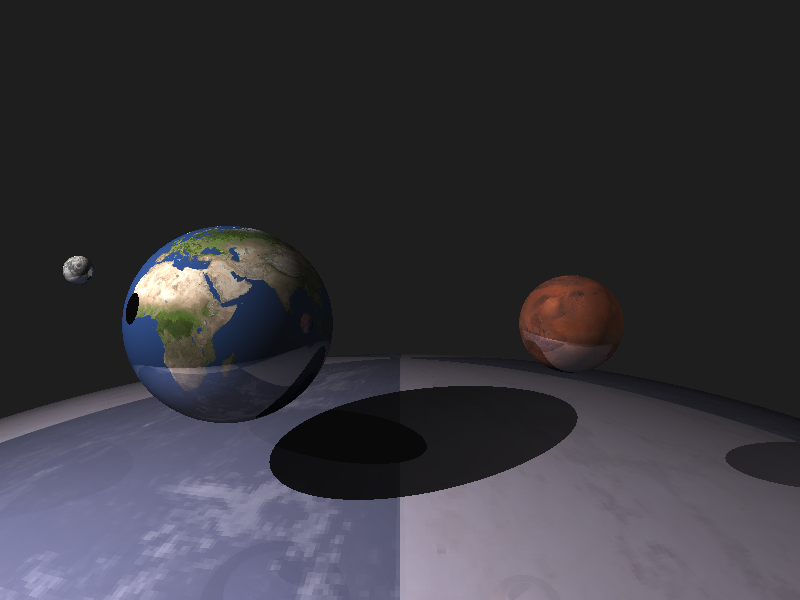
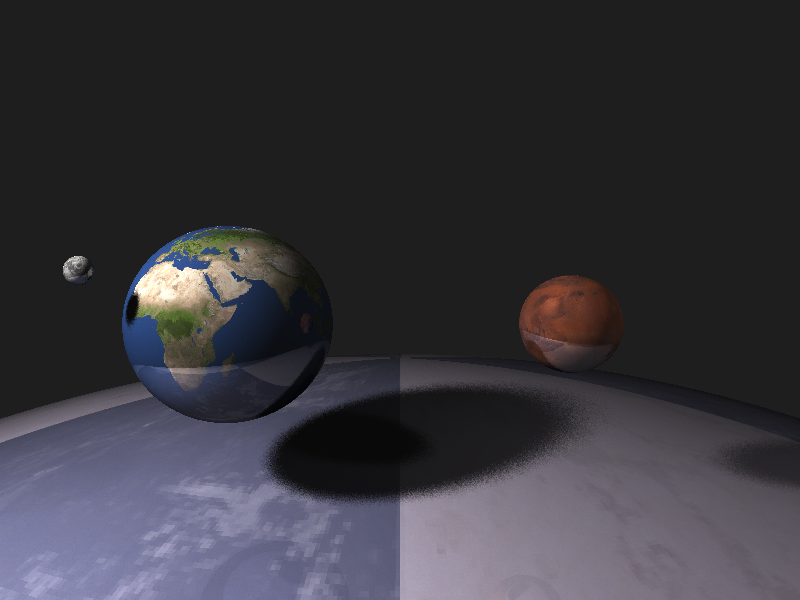
Naive implementation of soft shadows

diff --git a/src/Raytracer.cpp b/src/Raytracer.cpp
@@ -6,19 +6,32 @@
 #include <functional>
 #include <iostream>
 #include <thread>
+#include <random>
 
 constexpr bool REFRACTIONS_ENABLED = true;
 constexpr bool DEPTHMAP_ENABLED = false;
 constexpr bool SHADOWS_ENABLED = true;
 constexpr bool SHADOWS_DEBUG = false;
 constexpr double MAX_DEPTH = 100000.0;
-constexpr int maxReccursionLimit = 3;
+constexpr unsigned int MAX_RECCURSION_LIMIT = 3;
+
+constexpr bool SPHERICAL_LIGHTS_MODEL = true;
+constexpr unsigned int LIGHT_PROBES_COUNT = 16;
+constexpr unsigned int LIGHT_RADIUS = 50;
 
 constexpr bool MULTITHREAD_MODE = true;
 constexpr int IMG_WIDTH = 800;
 constexpr int IMG_HEIGHT = 600;
 
 namespace rt {
+
+int get_random_value(unsigned int max)
+{
+  static std::random_device r;
+  static std::mt19937 engine(r());
+  static std::uniform_int_distribution<int> uniform_dist(-max, max);
+  return uniform_dist(engine);  
+}
 
 struct ThreadInfo {
   unsigned int index;
@@ -155,7 +168,7 @@ void Raytracer::render(const int min_y, const int max_y,
 core::Color Raytracer::trace(core::Ray &ray, int reccursionStep) {
   core::Color local = {0.0, 0.0, 0.0};
 
-  if (reccursionStep > maxReccursionLimit)
+  if (reccursionStep > MAX_RECCURSION_LIMIT)
     return local;
 
   double distance = MAX_DEPTH;
@@ -182,74 +195,89 @@ core::Color Raytracer::trace(core::Ray &ray, int reccursionStep) {
         closestObject->getMaterialAt(collision);
     core::Vector closestObjectUV = closestObject->UV(collision);
     auto lights = scene_.getLights();
-    for (auto &light : lights) {
+    unsigned int light_probes_count = LIGHT_PROBES_COUNT;
+    if (!SPHERICAL_LIGHTS_MODEL) light_probes_count = 1;
 
-      // PHONG lighting model
-      double a = 0.7;
-      double b = 0.01;
-      double c = 0.001;
+    for (auto &scene_light : lights) {
 
-      core::Vector V = ray.getDirection(); // observation vector
-      V.normalize();
-      core::Vector L =
-          light->getPosition() - collision; // light incidence vector
-      double t2 = sqrtf(L.dot(L));
-      core::Vector lightDirection = L * (2.0f / t2);
-      L.normalize(); // do not normalize L before light direction calculatuions
-      lightDirection.normalize();
-      core::Ray lightRay(collision, lightDirection);
 
-      bool isInShadow = false;
-      core::Object::Ptr castingShadowObject{nullptr};
+      for (unsigned int light_probe_index = 0; light_probe_index < light_probes_count; ++ light_probe_index)
+      {
+        const double random_x = get_random_value(LIGHT_RADIUS);
+        const double random_y = get_random_value(LIGHT_RADIUS);
+        const double random_z = get_random_value(LIGHT_RADIUS);
 
-      if (SHADOWS_ENABLED) {
-        for (auto &object : objects) {
-          if (object->isCastingShadow && object->hit(lightRay, t2)) {
-            isInShadow = true;
-            castingShadowObject = object;
-            break;
-          }
-        };
-      }
+        rt::core::Point light_position = scene_light->getPosition();
+        rt::core::Point light_delta_point(random_x, random_y,random_z);
+        light_position = light_position + light_delta_point;
 
-      double dotNL = normal.dot(L);
+        // PHONG shading model
+        double a = 0.7;
+        double b = 0.01;
+        double c = 0.001;
 
-      core::Vector R = L - (normal * dotNL * 2.0); // reflected vector
-      R.normalize();
+        core::Vector V = ray.getDirection(); // observation vector
+        V.normalize();
+        core::Vector L =
+            light_position - collision; // light incidence vector
+        double t2 = sqrtf(L.dot(L));
+        core::Vector lightDirection = L * (2.0f / t2);
+        L.normalize(); // do not normalize L before light direction calculatuions
+        lightDirection.normalize();
+        core::Ray lightRay(collision, lightDirection);
 
-      double dotVR =
-          V.dot(R); // angle betwen observation vector and reflected vector
+        bool isInShadow = false;
+        core::Object::Ptr castingShadowObject{nullptr};
 
-      if (dotVR < 0)
-        dotVR = 0;
+        if (SHADOWS_ENABLED) {
+          for (auto &object : objects) {
+            if (object->isCastingShadow && object->hit(lightRay, t2)) {
+              isInShadow = true;
+              castingShadowObject = object;
+              break;
+            }
+          };
+        }
 
-      core::Vector difference = light->getPosition() - collision;
+        double dotNL = normal.dot(L);
 
-      double di = sqrtf(difference.x() * difference.x() +
-                        difference.y() * difference.y() +
-                        difference.z() * difference.z());
+        core::Vector R = L - (normal * dotNL * 2.0); // reflected vector
+        R.normalize();
 
-      double lightning_factor = 1.0 / (a + b * di + c * di * di);
+        double dotVR =
+            V.dot(R); // angle betwen observation vector and reflected vector
 
-      double casting_shadow_opacity_factor = 1.0;
-      if (isInShadow) {
-        casting_shadow_opacity_factor =
-            castingShadowObject->getMaterial().get_opacity_at_uv(closestObjectUV.x(), closestObjectUV.y());
-      }
+        if (dotVR < 0)
+          dotVR = 0;
 
-      if (SHADOWS_DEBUG && isInShadow)
-        local = core::Color{255.0, 0.0, 255.0};
-      else {
-        
-        core::Color ambient = closestObjectMaterial.get_ambient_at_uv(closestObjectUV.x(), closestObjectUV.y()) * 
-                              lightning_factor * casting_shadow_opacity_factor;
-        core::Color diffuse = closestObjectMaterial.get_diffuse_at_uv(closestObjectUV.x(), closestObjectUV.y()) *
-                              light->getColor() * dotNL * lightning_factor *
-                              20.0 * casting_shadow_opacity_factor;
-        core::Color specular = closestObjectMaterial.get_specular_at_uv(closestObjectUV.x(), closestObjectUV.y()) *
-                               light->getColor() * pow(dotVR, 40) * 0.95 *
-                               casting_shadow_opacity_factor;
-        local = local + clamp(ambient) + clamp(diffuse) + clamp(specular);
+        core::Vector difference = light_position - collision;
+
+        double di = sqrtf(difference.x() * difference.x() +
+                          difference.y() * difference.y() +
+                          difference.z() * difference.z());
+
+        double lightning_factor = 1.0 / (a + b * di + c * di * di);
+
+        double casting_shadow_opacity_factor = 1.0;
+        if (isInShadow) {
+          casting_shadow_opacity_factor =
+              castingShadowObject->getMaterial().get_opacity_at_uv(closestObjectUV.x(), closestObjectUV.y());
+        }
+
+        if (SHADOWS_DEBUG && isInShadow)
+          local = core::Color{255.0, 0.0, 255.0};
+        else {
+          
+          core::Color ambient = closestObjectMaterial.get_ambient_at_uv(closestObjectUV.x(), closestObjectUV.y()) * 
+                                lightning_factor * casting_shadow_opacity_factor;
+          core::Color diffuse = closestObjectMaterial.get_diffuse_at_uv(closestObjectUV.x(), closestObjectUV.y()) *
+                                scene_light->getColor() * dotNL * lightning_factor *
+                                20.0 * casting_shadow_opacity_factor;
+          core::Color specular = closestObjectMaterial.get_specular_at_uv(closestObjectUV.x(), closestObjectUV.y()) *
+                                scene_light->getColor() * pow(dotVR, 40) * 0.95 *
+                                casting_shadow_opacity_factor;
+          local = local + (clamp(ambient) + clamp(diffuse) + clamp(specular)) * (1.0 / (double)light_probes_count);
+        }
       }
     }
 
@@ -262,7 +290,7 @@ core::Color Raytracer::trace(core::Ray &ray, int reccursionStep) {
 
     if (closestObjectMaterial.get_opacity_at_uv(closestObjectUV.x(), closestObjectUV.y()) > 0.0 &&
         REFRACTIONS_ENABLED) // comparing doubles should use some kind of
-                             // epsilon (std::numeric_limis<double> maybe?)
+                            // epsilon (std::numeric_limis<double> maybe?)
     {
       double n1;
       double n2;
@@ -283,22 +311,19 @@ core::Color Raytracer::trace(core::Ray &ray, int reccursionStep) {
 
       double local_opacity_index = closestObjectMaterial.get_opacity_at_uv(closestObjectUV.x(), closestObjectUV.y());
 
+      core::Ray refraction(core::Point(0.0,0.0,0.0), core::Vector(0.0,0.0,0.0));
+
       if (cosT < 0.0f) {
         // This is total internal reflection (but i'm lazy so it still
         // refracting) todo: fix me
-        core::Ray refraction(collision, ray.getDirection() * (n1 / n2) +
+        refraction = core::Ray(collision, ray.getDirection() * (n1 / n2) +
                                             normal * ((n1 / n2) * cosI - cosT));
-
-        core::Color refractionColor = trace(refraction, reccursionStep + 1);
-        local = local + clamp(refractionColor * local_opacity_index);
-
       } else {
-        core::Ray refraction(collision, ray.getDirection() * (n1 / n2) +
+        refraction = core::Ray(collision, ray.getDirection() * (n1 / n2) +
                                             normal * ((n1 / n2) * cosI - cosT));
-
-        core::Color refractionColor = trace(refraction, reccursionStep + 1);
-        local = local + clamp(refractionColor * local_opacity_index);
       }
+        core::Color refractionColor = trace(refraction, reccursionStep + 1);
+        local = local + clamp(refractionColor * local_opacity_index); 
     }
   }
   return local;

diff --git a/main.cpp b/main.cpp
@@ -57,7 +57,7 @@ void raytrace(const std::string& scene_filename, const std::string& result_filen
     raytracer.run();
     auto end = std::chrono::system_clock::now();
     std::chrono::duration<double> diff = end - start;
-    logger.inf() << "Took " << std::setw(4) << diff.count() << " [s] to render";
+    logger.inf() << "Took " << std::setw(4) << diff.count() << " [s] to render " << scene_filename;
     logger.inf() << "Raytracer finished";
     saveImage(raytracer, result_filename);
 }
@@ -68,8 +68,7 @@ void textInterface() {
     raytrace("../scene.json", "../render.png");
 
   } catch (const std::string &e) {
-    logger.err() << "Exception was thrown: "
-                 << "\n"
+    logger.err() << "Exception was thrown: \n"
                  << "\t" << e;
   }
 }

diff --git a/src/Version.hpp b/src/Version.hpp
@@ -1,1 +1,1 @@
-constexpr char VERSION[] = "0.1.1.4";
+constexpr char VERSION[] = "0.1.2.0";
